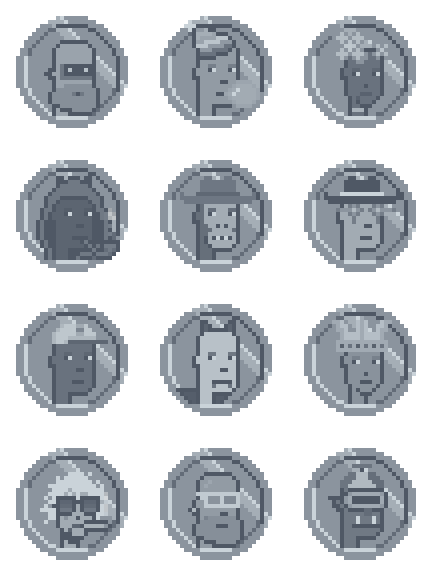
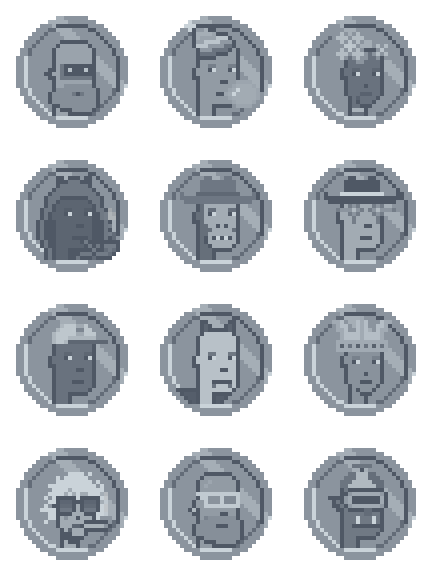
up

diff --git a/coins/bronzecoins.rb b/coins/bronzecoins.rb
@@ -1,0 +1,101 @@
+#####
+#  to run use:
+#    $   ruby ./bronzecoins.rb
+
+
+##
+# to be done:
+#   check for alpha channel e.g. pipe smoke  (gets gray-ish) - why?
+
+
+require 'punks'
+
+
+
+
+puts "colors:"
+puts Color.format( Color.parse(  '#B16C57' ))
+#=>
+
+# note: use dark to light
+COIN_PALETTE = Gradient.new( '#7C433A',
+                             '#8D5144',
+                             '#B16C57',
+                             '#C87E63',
+                             '#E99775' ).colors( 256 )
+
+
+img = ImagePalette8bit.new( COIN_PALETTE, size: 4 )
+img.save( "./tmp/palette_bronze.png" )
+img.zoom(2).save( "tmp/palette_bronzex2.png" )
+
+
+COIN_FRAME   = Image.read( "./bronzecoin-32x32.png" )
+puts "   #{COIN_FRAME.width}x#{COIN_FRAME.height}"
+
+
+def mint( punk )
+  ## change to coin color palette
+  coin = Image.new( 32, 32 )
+  coin.compose!( COIN_FRAME )
+  coin.compose!( punk.change_palette8bit( COIN_PALETTE ), 5, 3 )
+  coin
+end
+
+
+
+
+
+
+####
+#  read in ordinals metadata
+recs = read_csv( "../../ordinalpunks.starter/ordinalpunks.csv" )
+puts "    #{recs.size} record(s)"
+
+
+def rec_to_attributes( rec )
+  type =     rec['type']
+  gender =   rec['gender']
+  skin_tone = rec['skin_tone']
+
+  # note: merge type+gender+skin_tone into one attribute
+  base = "#{type} #{gender}"
+  base << " #{skin_tone}"       unless skin_tone.empty?
+
+  accessories = rec['accessories'].split( '/' ).map { |acc| acc.strip }
+  attributes = [base] + accessories
+  attributes
+end
+
+
+
+
+
+
+
+composite = ImageComposite.new( 3, 4, width:  32+4,
+                                      height: 32+4 )
+
+
+ids = (0..11)
+pp ids
+
+ids.each do |id|
+  attributes = rec_to_attributes( recs[id] )
+  pp attributes
+
+  punk = Punk::Image.generate( *attributes )
+
+  coin = mint( punk )
+
+  tile = Image.new( 32+4, 32+4 )
+  tile.compose!( coin, 2, 2 )  ## add 2/2 padding
+  composite << tile
+end
+
+
+composite.save( "./tmp/bronzecoins.png" )
+composite.zoom(4).save( "./tmp/bronzecoins@4x.png" )
+
+
+puts "bye"

diff --git a/README.md b/README.md
@@ -144,6 +144,16 @@ Turn your "classic" ordinal punks into gold/silver/bronze coins...
 </details>
 
 
+![](coins/i/bronzecoins.png)
+
+<details>
+<summary markdown="1">4x</summary>
+
+![](coins/i/bronzecoins@4x.png)
+
+</details>
+
+
 
 
 
